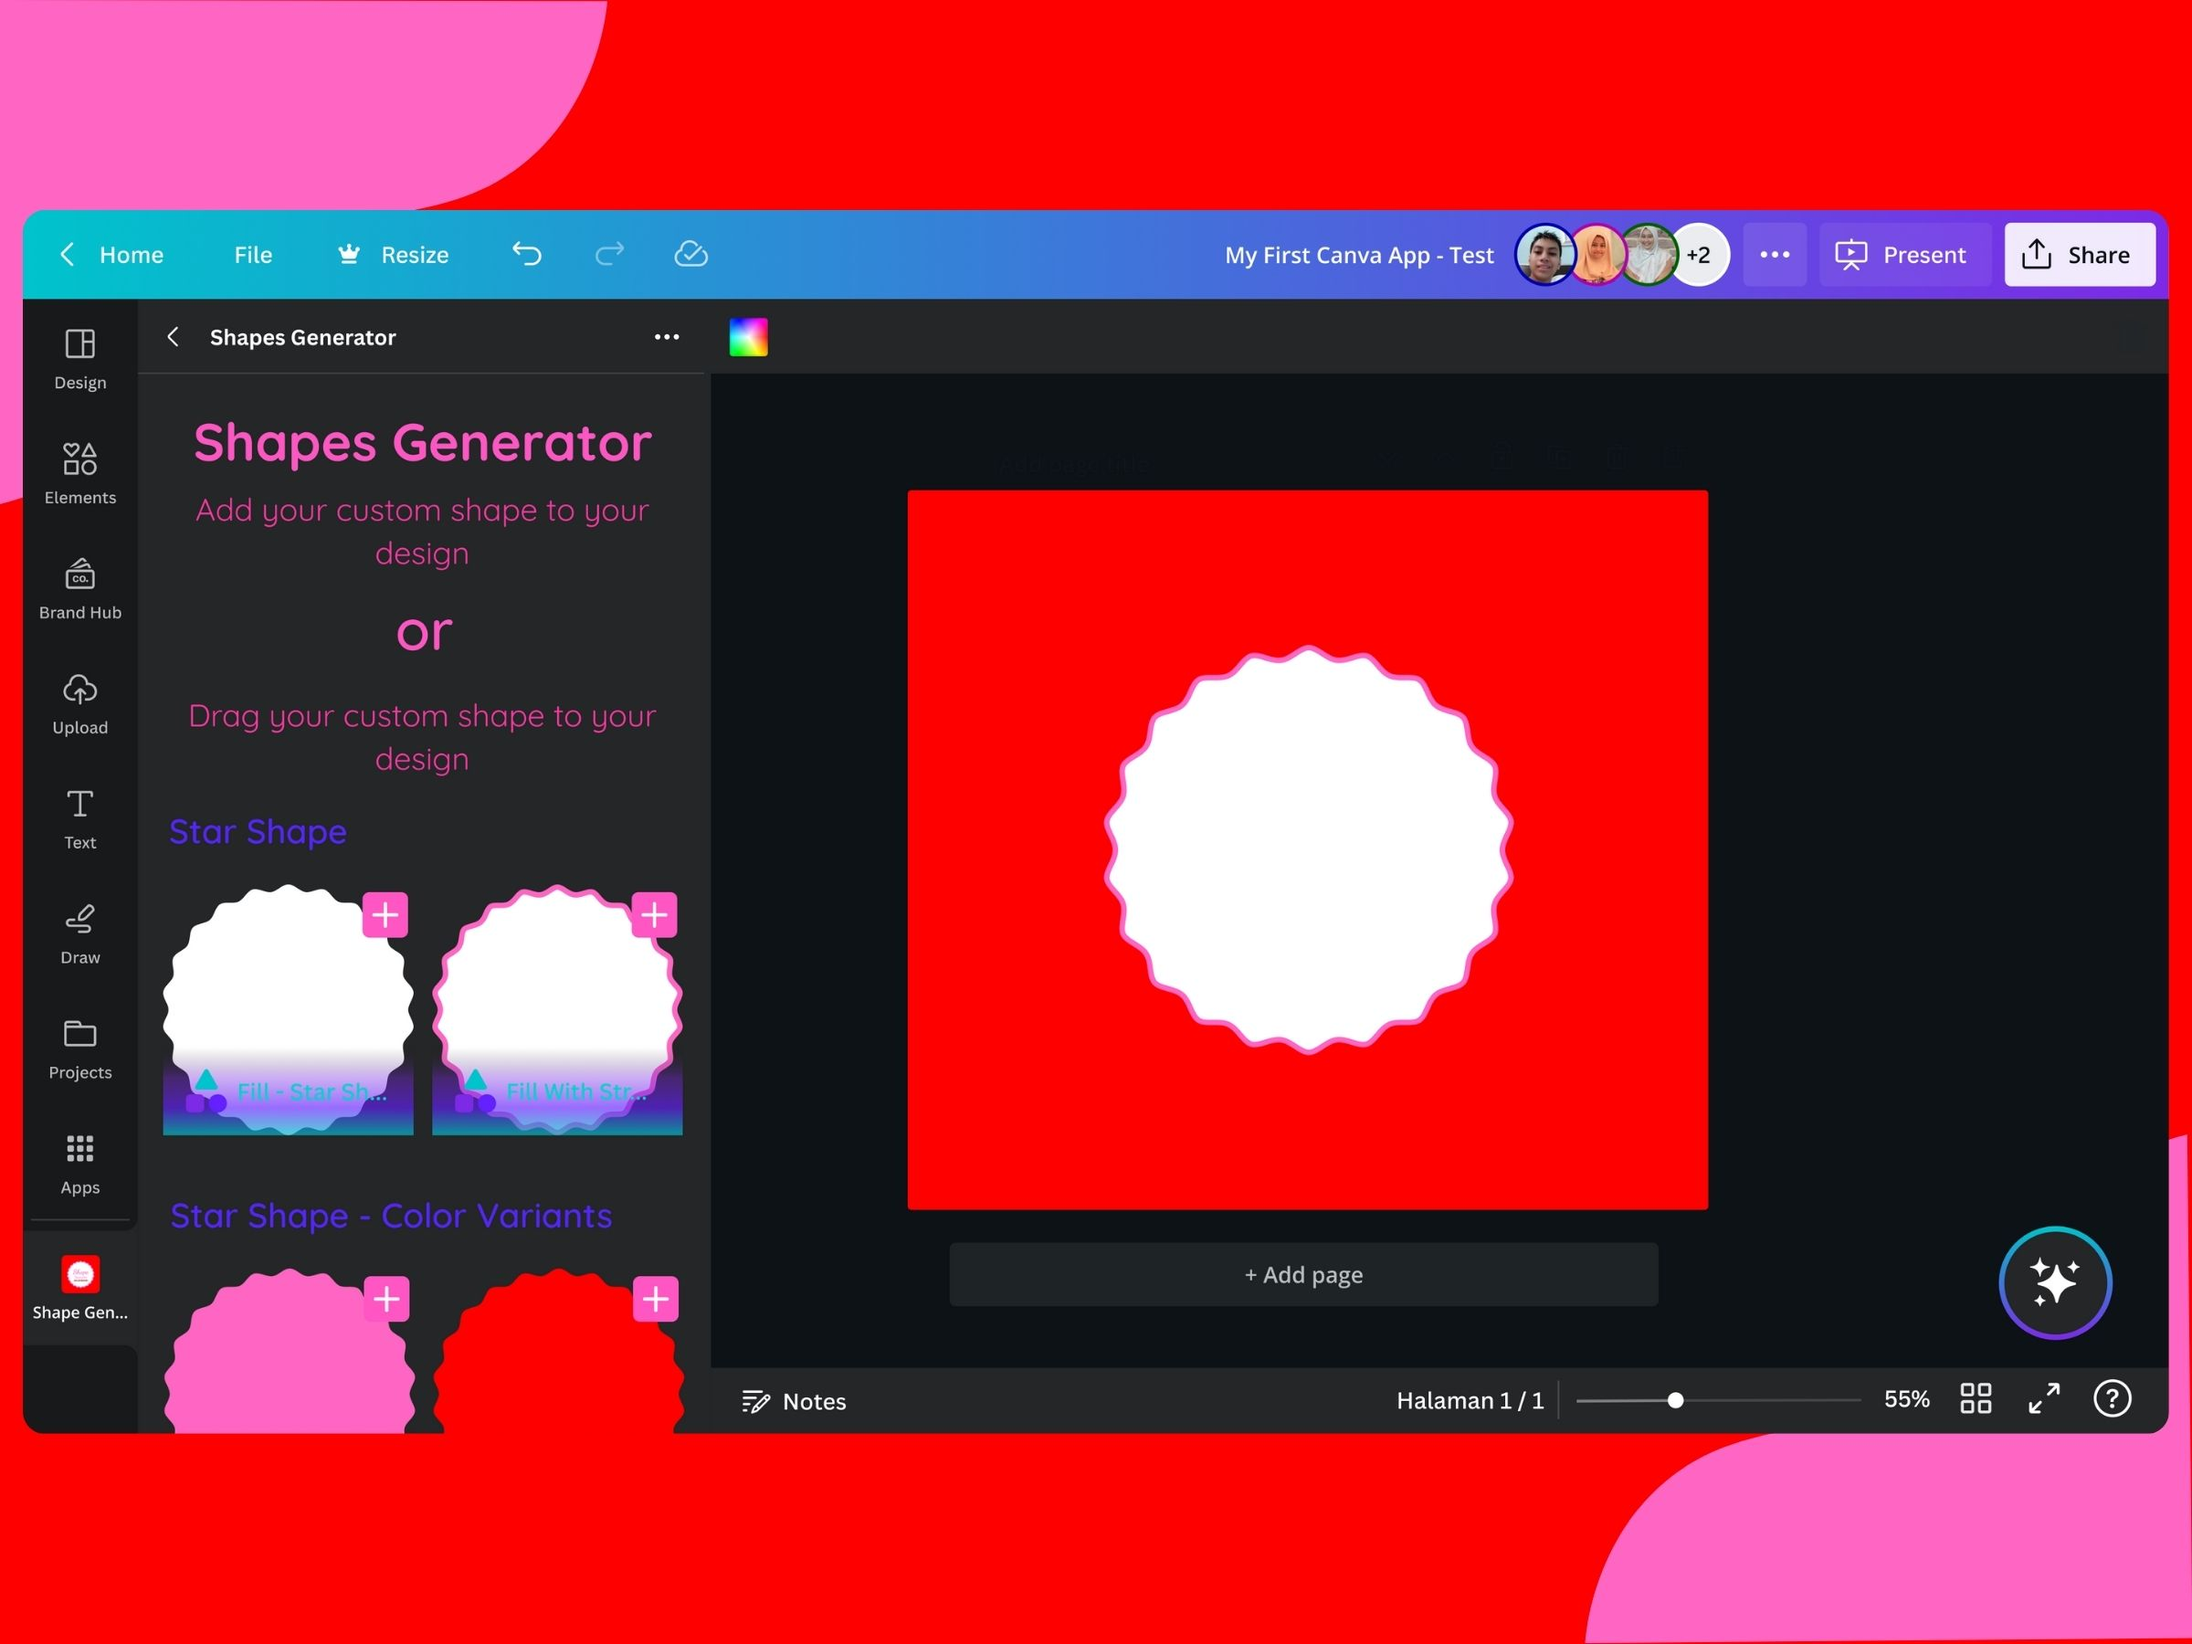
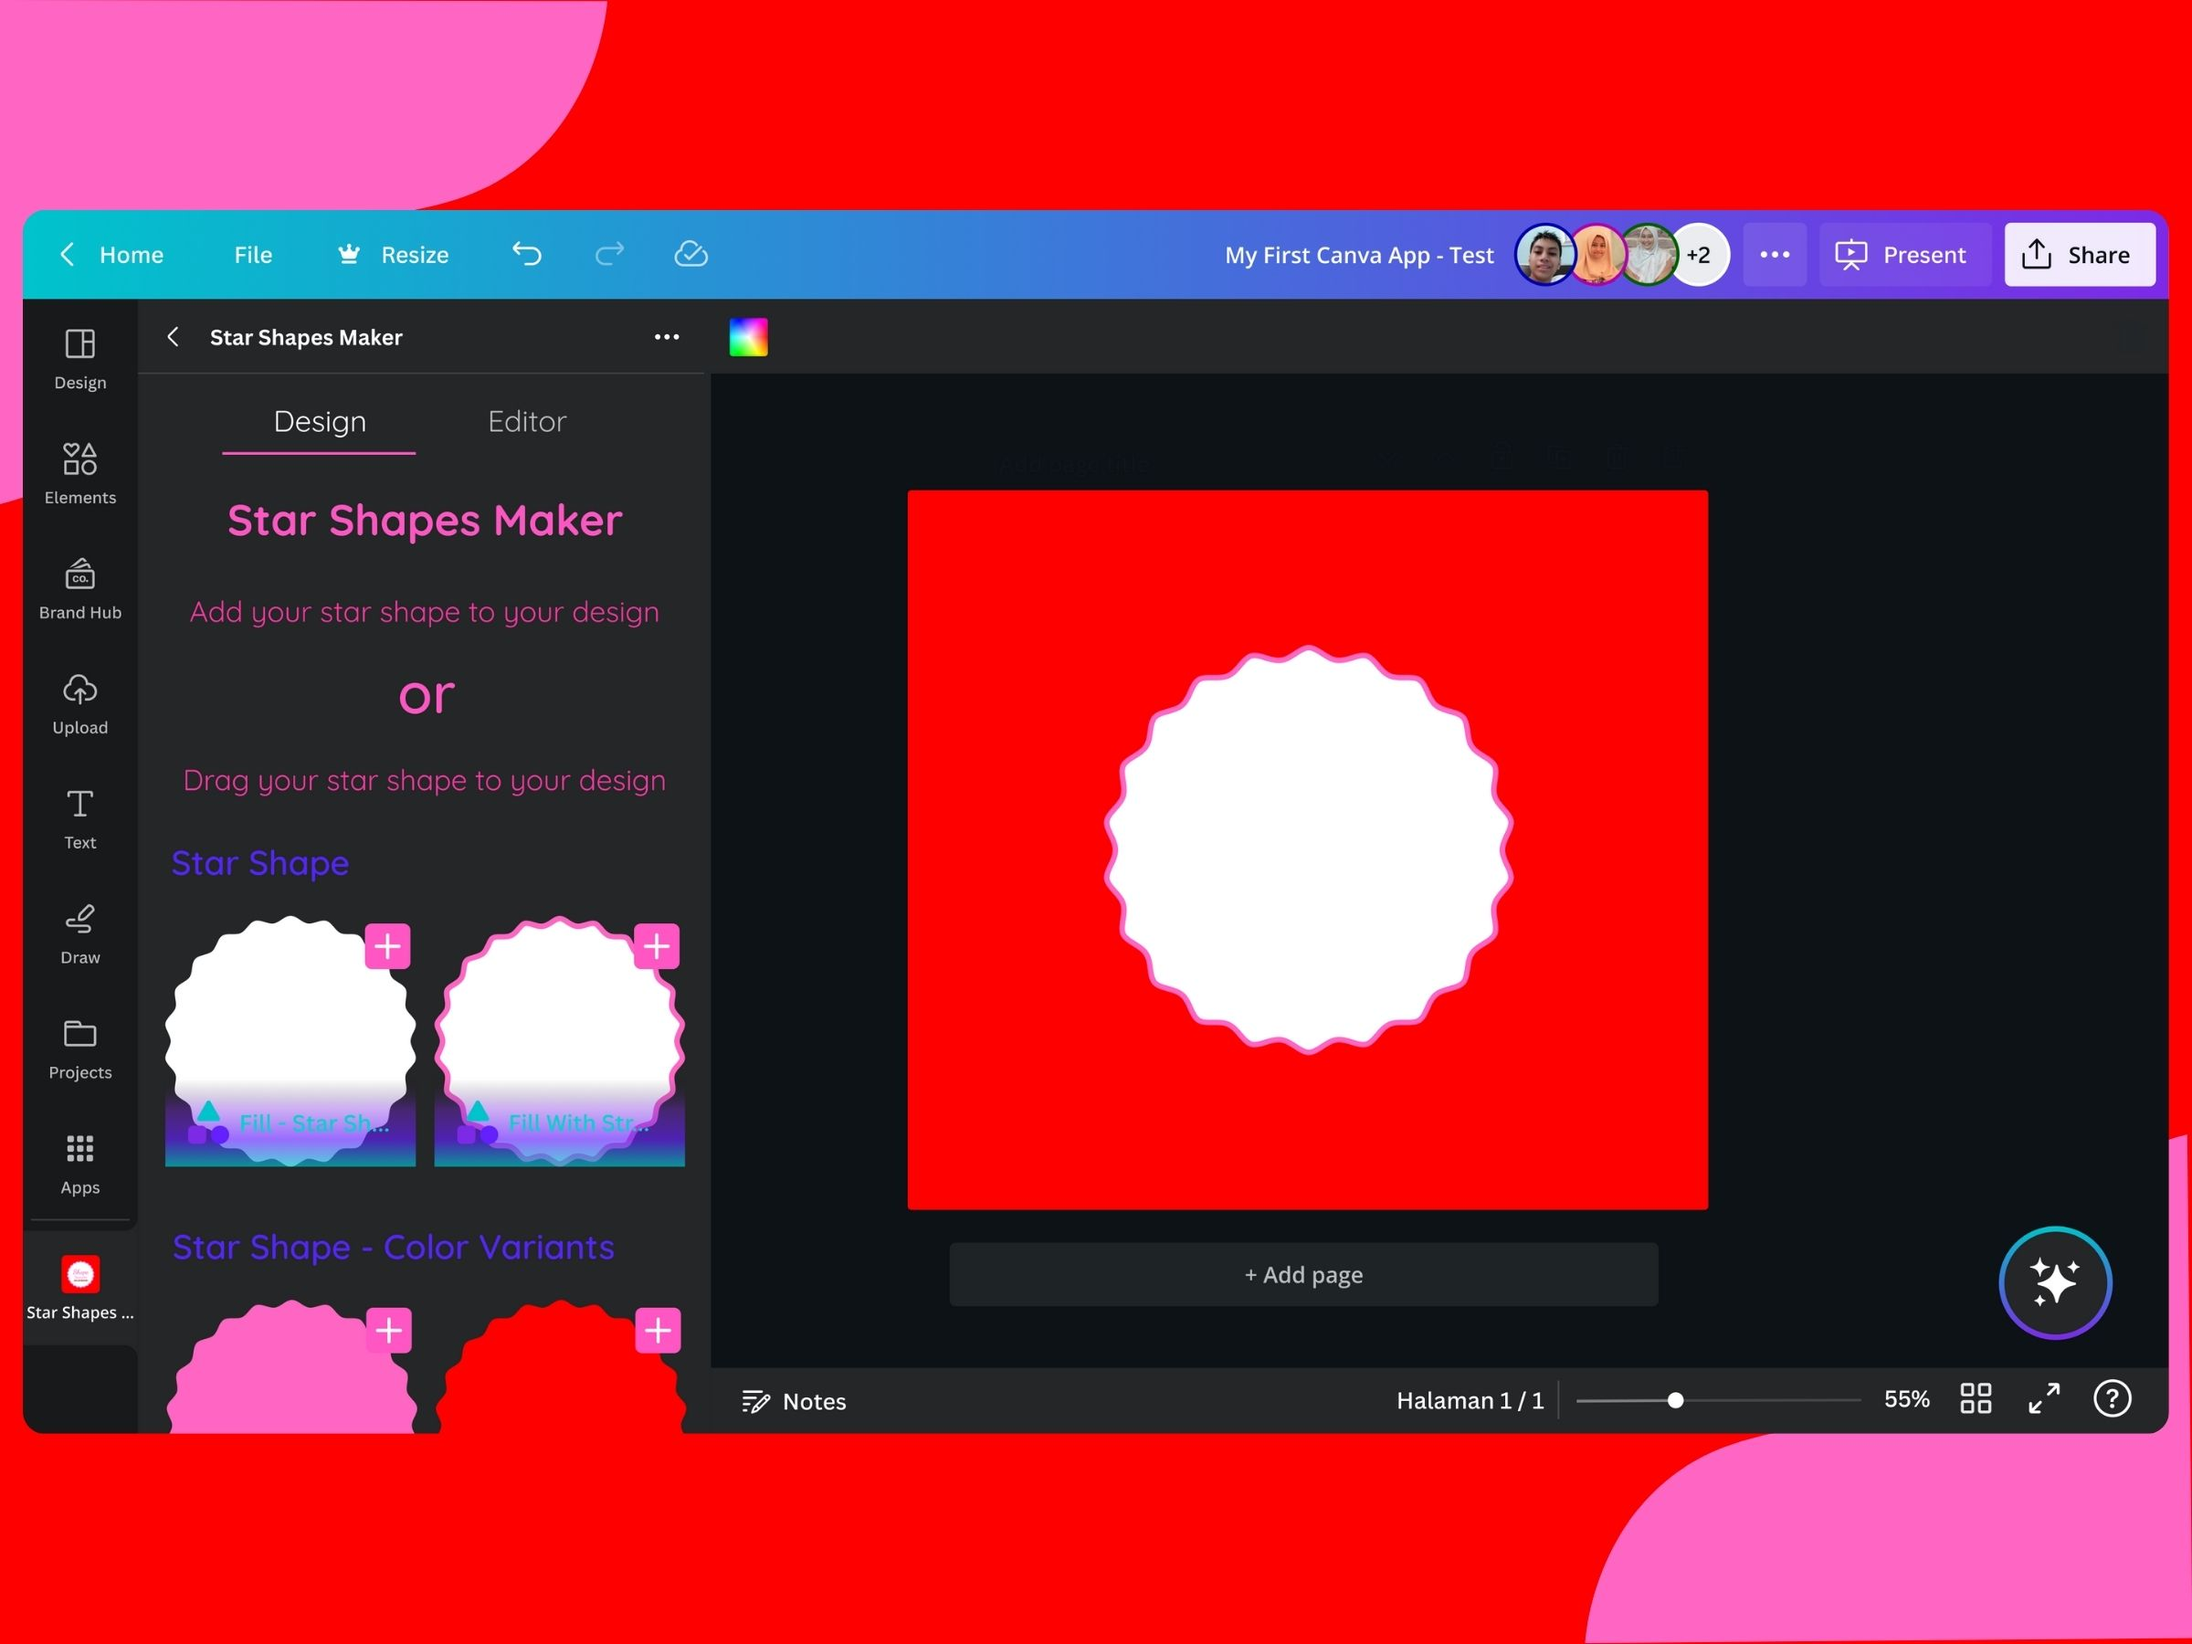
Update App Preview

diff --git a/README.md b/README.md
@@ -1,6 +1,8 @@
 # Star Shapes Maker
 ![Star Shapes Maker - App preview](shapes-generator-app-preview.jpg)
 Star Shapes Maker is a tool that can generate a star shapes in your canva design, Star Shapes Maker tool generates a star shapes that looks like a circle shape or a flower image.
+![Star Shapes Maker - App Editor Preview](shapes-generator-app-editor-preview.jpg)
+Star Shapes Maker also has an editor when you can edit the star shape from the editor itself.
 
 # Check out our website
 [Star Shapes Maker](https://sites.google.com/view/starshapesmakerweb/home)
